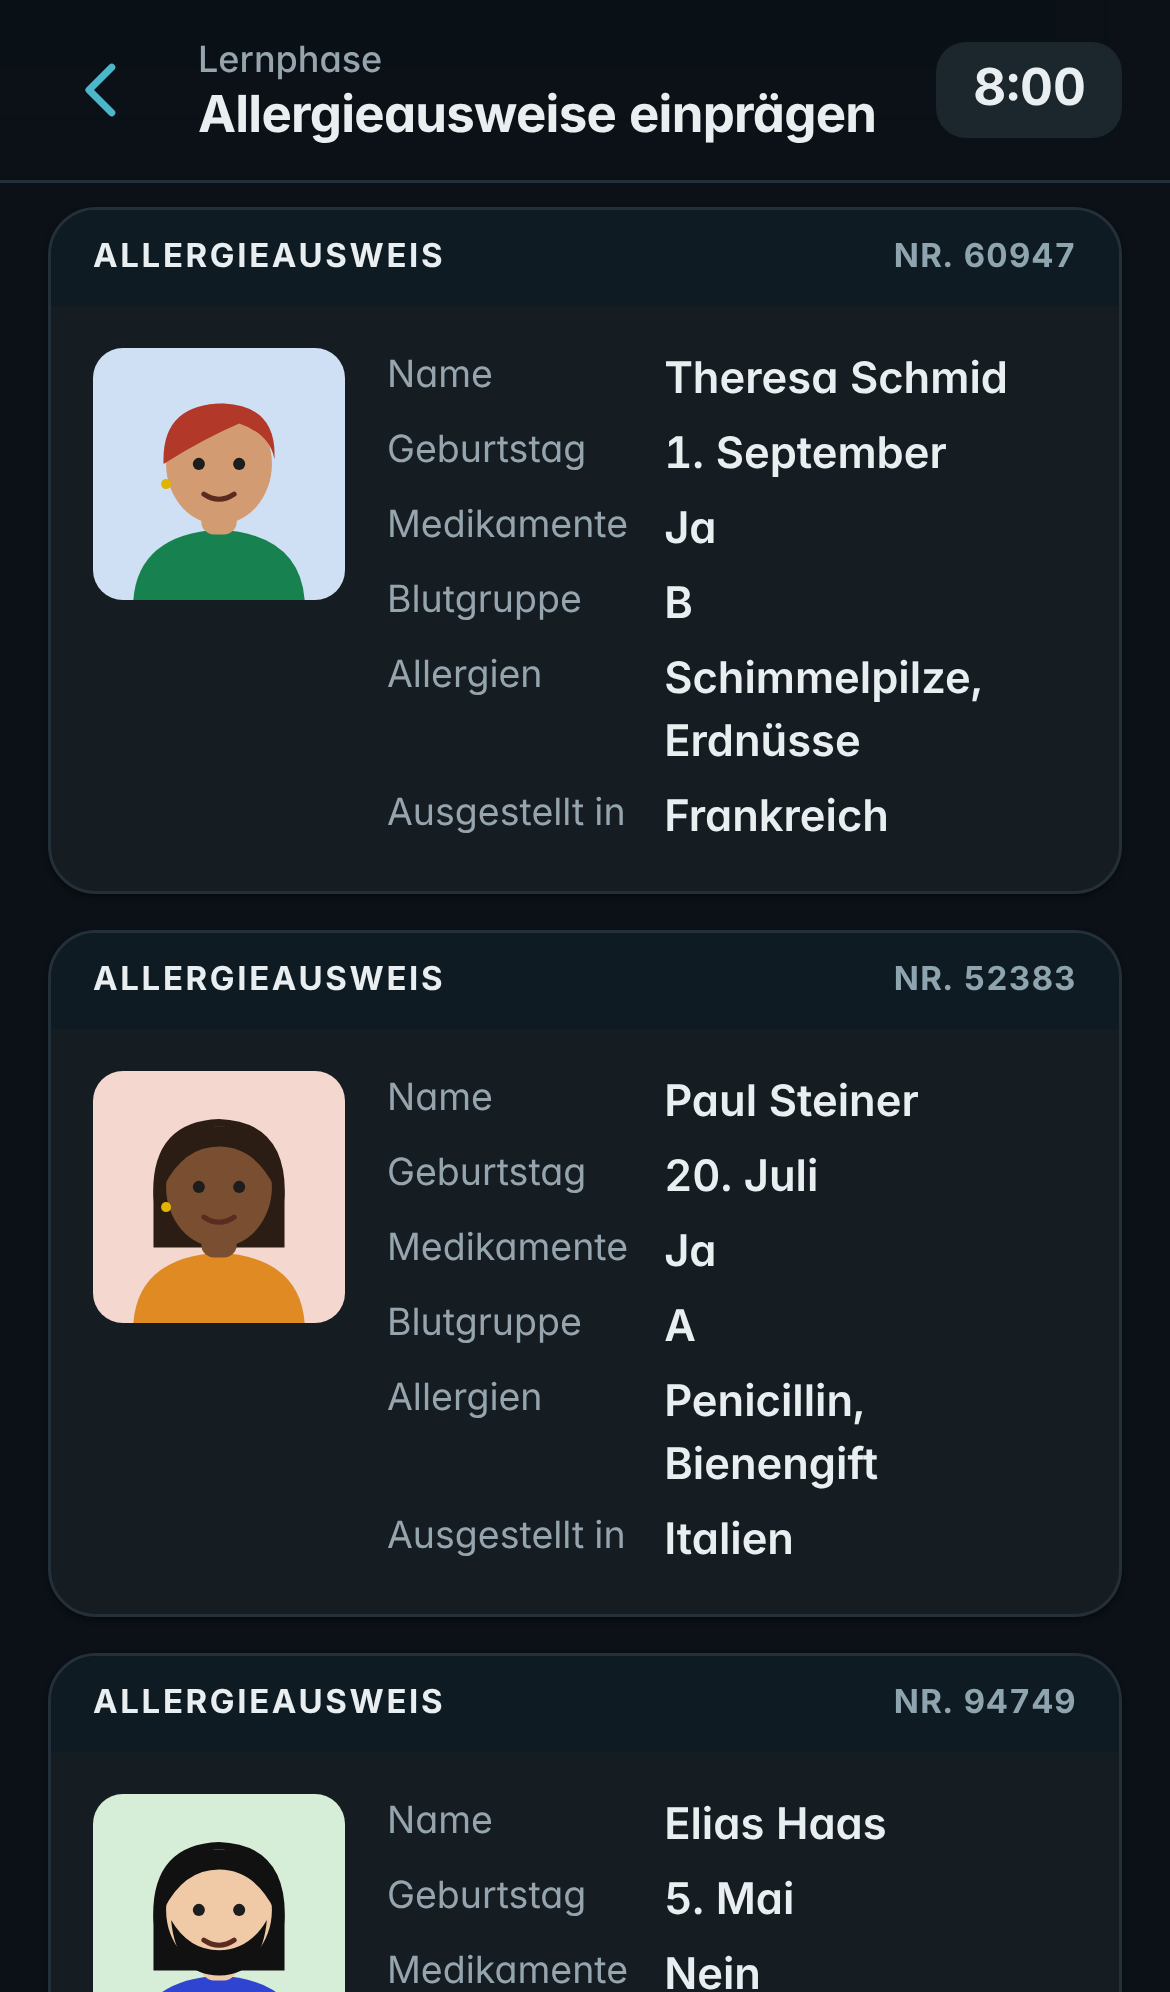
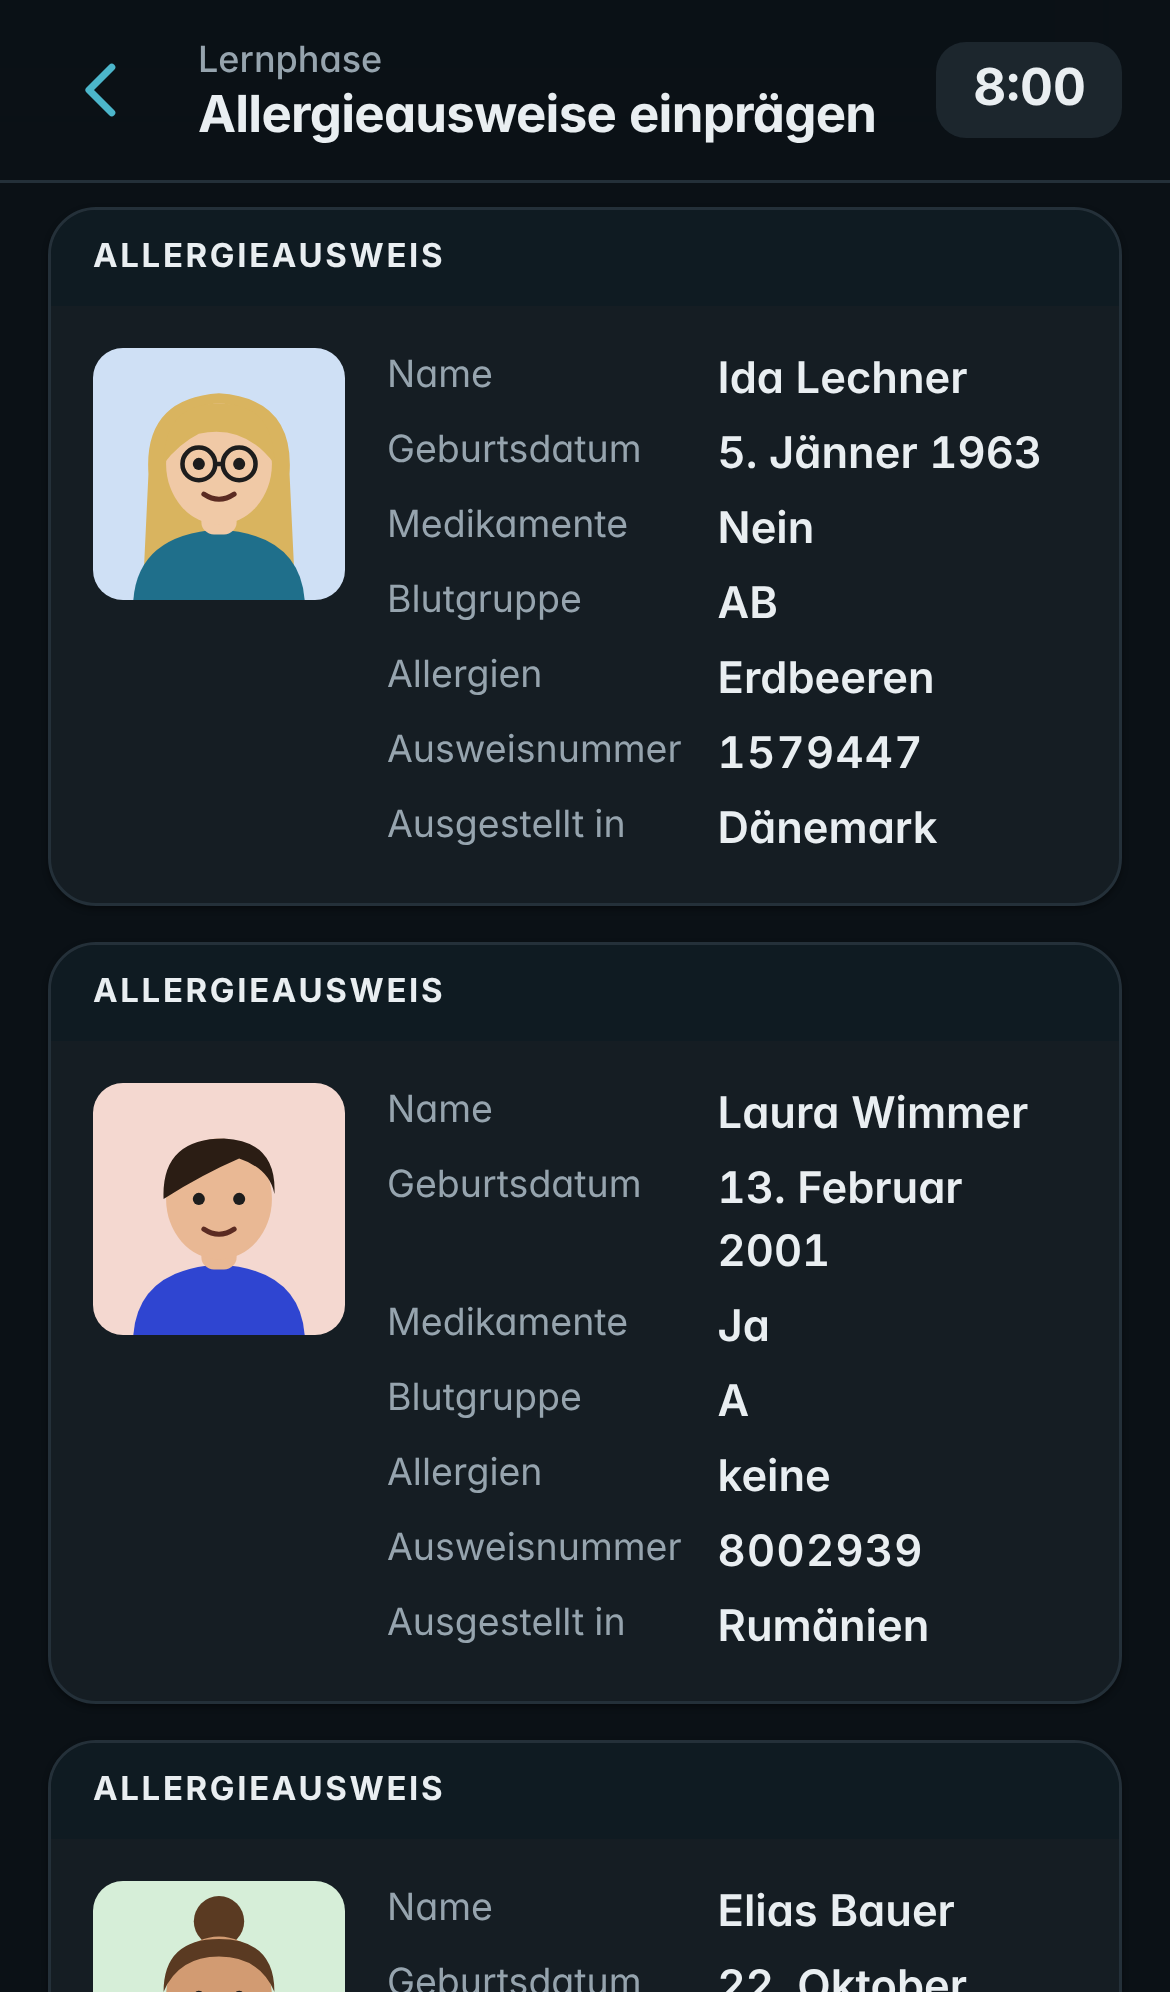
Allergieausweise: Ausweisnummer als Feld, 7-stellig, Geburtsdatum mit Jahr; Wortflüssigkeit: Buchstaben mischen
- Ausweisnummer steht jetzt wie die anderen Angaben im Ausweis
- Geburtsdatum mit Jahr; Ablenker mit gleichem Tag aber anderem Jahr
- Land-Frage grammatikalisch umformuliert
- Wortflüssigkeit: Knopf zum beliebig oft Neumischen, Original wiederherstellbar

Claude-Session: https://claude.ai/code/session_01B9wskRgUrMw6CFMS5FXK1V

diff --git a/js/gedaechtnis.js b/js/gedaechtnis.js
@@ -75,14 +75,14 @@
     const lastNames = uniquePick(LAST, n);
     const countries = uniquePick(COUNTRIES, n);
     const numbers = new Set();
-    while (numbers.size < n) numbers.add(String(randInt(10000, 99999)));
+    while (numbers.size < n) numbers.add(String(randInt(1000000, 9999999)));
     const nums = Array.from(numbers);
     const bdays = new Set();
     const bd = [];
     while (bd.length < n) {
       const d = randInt(1, 28), m = randInt(0, 11);
       const key = d + "." + m;
-      if (!bdays.has(key)) { bdays.add(key); bd.push(d + ". " + MONTHS[m]); }
+      if (!bdays.has(key)) { bdays.add(key); bd.push(d + ". " + MONTHS[m] + " " + randInt(1955, 2008)); }
     }
     const firstF = shuffle(FIRST_F), firstM = shuffle(FIRST_M);
     const cards = [];
@@ -110,14 +110,15 @@
     opts = opts || {};
     return (
       '<article class="idcard' + (opts.highlight ? " is-highlight" : "") + '">' +
-      '<div class="idcard-head"><span>Allergieausweis</span><span class="idcard-no">Nr. ' + c.number + "</span></div>" +
+      '<div class="idcard-head"><span>Allergieausweis</span></div>' +
       '<div class="idcard-body">' + avatarSvg(c.look, "Foto von " + c.name) +
       '<dl class="idcard-fields">' +
       "<dt>Name</dt><dd>" + esc(c.name) + "</dd>" +
-      "<dt>Geburtstag</dt><dd>" + c.birthday + "</dd>" +
+      "<dt>Geburtsdatum</dt><dd>" + c.birthday + "</dd>" +
       "<dt>Medikamente</dt><dd>" + c.meds + "</dd>" +
       "<dt>Blutgruppe</dt><dd>" + c.blood + "</dd>" +
       "<dt>Allergien</dt><dd>" + (c.allergies.length ? c.allergies.join(", ") : "keine") + "</dd>" +
+      "<dt>Ausweisnummer</dt><dd class=\"idcard-num\">" + c.number + "</dd>" +
       "<dt>Ausgestellt in</dt><dd>" + c.country + "</dd>" +
       "</dl></div></article>"
     );
@@ -128,7 +129,7 @@
   const REF = {
     photo: (c) => ({ html: '<span class="ref-photo">' + avatarSvg(c.look, "abgebildete Person") + "</span>", text: "die abgebildete Person" }),
     name: (c) => ({ text: esc(c.name) }),
-    birthday: (c) => ({ text: "die Person, die am " + c.birthday + " Geburtstag hat" }),
+    birthday: (c) => ({ text: "die Person, die am " + c.birthday + " geboren wurde" }),
     number: (c) => ({ text: "die Person mit der Ausweisnummer " + c.number }),
     country: (c) => ({ text: "die Person, deren Ausweis " + inCountry(c.country) + " ausgestellt wurde" }),
   };
@@ -136,7 +137,12 @@
   // Was gefragt wird: Fragetext (mit Bezug), Antwort, mögliche Ablenker
   const ASK = {
     name: { q: (r) => "Wie heißt " + r + "?", val: (c) => esc(c.name), from: (cs) => cs.map((c) => esc(c.name)) },
-    birthday: { q: (r) => "Wann hat " + r + " Geburtstag?", val: (c) => c.birthday, from: (cs) => cs.map((c) => c.birthday) },
+    birthday: {
+      q: (r) => "Wann wurde " + r + " geboren?",
+      val: (c) => c.birthday,
+      // andere Ausweise plus derselbe Tag mit anderem Jahr, damit man sich das Jahr merken muss
+      from: (cs, c) => cs.map((x) => x.birthday).concat(shuffle([-3, -2, -1, 1, 2, 3]).slice(0, 2).map((d) => c.birthday.replace(/\d{4}$/, (y) => String(Number(y) + d)))),
+    },
     meds: { q: (r) => "Nimmt " + r + " Medikamente ein?", val: (c) => c.meds, fixed: ["Ja", "Nein"] },
     blood: { q: (r) => "Welche Blutgruppe hat " + r + "?", val: (c) => c.blood, fixed: BLOOD },
     number: { q: (r) => "Welche Ausweisnummer hat " + r + "?", val: (c) => c.number, from: (cs) => cs.map((c) => c.number) },
@@ -170,7 +176,12 @@
       const ref = REF[refKind](c);
       let q = ask.q(ref.text);
       if (askKey === "country" && refKind !== "name") {
-        q = "In welchem Land wurde der Ausweis ausgestellt, der zu " + dative(ref.text) + " gehört?";
+        // „der Person, die … geboren wurde“ -> Nebensatz ans Ende stellen
+        const g = dative(ref.text);
+        const cut = g.indexOf(", ");
+        q = cut > 0
+          ? "In welchem Land wurde der Ausweis " + g.slice(0, cut) + " ausgestellt" + g.slice(cut) + "?"
+          : "In welchem Land wurde der Ausweis " + g + " ausgestellt?";
       }
       q = capital(q);
 
@@ -187,7 +198,7 @@
         if (askKey === "blood") options.push("Keine der Antworten ist richtig.");
       } else {
         const right = ask.val(c);
-        const pool = Array.from(new Set(ask.from(cards))).filter((v) => v !== right);
+        const pool = Array.from(new Set(ask.from(cards, c))).filter((v) => v !== right);
         ({ options, correct } = U.withNone(right, pool, 0.15));
       }
 

diff --git a/js/wortfluessigkeit.js b/js/wortfluessigkeit.js
@@ -52,6 +52,48 @@
     return word.split("").reverse().join("");
   }
 
+  const SHUFFLE_ICON =
+    '<svg viewBox="0 0 24 24" aria-hidden="true"><path d="M4 7h3.5c4 0 5 10 9 10H20"/><path d="M4 17h3.5c1.6 0 2.7-1.6 3.6-3.6"/>' +
+    '<path d="M13 10.2c.9-1.8 2-3.2 3.5-3.2H20"/><path d="M17.5 4.5L20 7l-2.5 2.5"/><path d="M17.5 14.5L20 17l-2.5 2.5"/></svg>';
+
+  /* Buchstaben neu anordnen, mit kurzer Animation (FLIP) */
+  function reorder(box, order) {
+    const tiles = Array.from(box.children);
+    const before = new Map(tiles.map((t) => [t, t.getBoundingClientRect()]));
+    order.forEach((t) => box.append(t));
+    const reduce = window.matchMedia && window.matchMedia("(prefers-reduced-motion: reduce)").matches;
+    if (reduce) return;
+    for (const t of tiles) {
+      const a = before.get(t), b = t.getBoundingClientRect();
+      const dx = a.left - b.left, dy = a.top - b.top;
+      if (!dx && !dy) continue;
+      t.animate([{ transform: "translate(" + dx + "px," + dy + "px)" }, { transform: "none" }], { duration: 280, easing: "cubic-bezier(.2,.7,.2,1)" });
+    }
+  }
+
+  document.addEventListener("click", (e) => {
+    const btn = e.target.closest('[data-act="tiles-shuffle"], [data-act="tiles-reset"]');
+    if (!btn) return;
+    const card = btn.closest(".prompt-card") || document;
+    const box = card.querySelector(".anagram");
+    if (!box) return;
+    const tiles = Array.from(box.children);
+    const reset = card.querySelector('[data-act="tiles-reset"]');
+    if (btn.getAttribute("data-act") === "tiles-reset") {
+      reorder(box, tiles.slice().sort((a, b) => a.dataset.pos - b.dataset.pos));
+      if (reset) reset.hidden = true;
+      return;
+    }
+    const cur = tiles.map((t) => t.dataset.pos).join(",");
+    let next = tiles;
+    for (let t = 0; t < 20; t++) {
+      next = U.shuffle(tiles);
+      if (next.map((x) => x.dataset.pos).join(",") !== cur) break;
+    }
+    reorder(box, next);
+    if (reset) reset.hidden = false;
+  });
+
   function letterHtml(l) {
     return '<span class="big-letter">' + l + "</span>";
   }
@@ -71,7 +113,11 @@
       prompt:
         '<p class="prompt-q">Mit welchem Buchstaben beginnt das Wort?</p>' +
         '<div class="anagram" aria-label="Buchstaben: ' + scrambled.split("").join(" ") + '">' +
-        scrambled.split("").map((l) => '<span class="tile">' + l + "</span>").join("") +
+        scrambled.split("").map((l, i) => '<span class="tile" data-pos="' + i + '">' + l + "</span>").join("") +
+        "</div>" +
+        '<div class="tile-tools">' +
+        '<button type="button" class="chip-btn" data-act="tiles-shuffle">' + SHUFFLE_ICON + "Mischen</button>" +
+        '<button type="button" class="chip-btn" data-act="tiles-reset" hidden>Original</button>' +
         "</div>",
       options,
       correct,

diff --git a/css/app.css b/css/app.css
@@ -500,6 +500,14 @@ section.notice { display: flex; flex-direction: column; gap: 8px; color: var(--i
   background: var(--surface-2); font-size: 21px; font-weight: 700;
 }
 .big-letter { font-size: 20px; font-weight: 700; }
+.tile-tools { display: flex; gap: 8px; }
+.chip-btn {
+  display: inline-flex; align-items: center; gap: 6px; min-height: 36px; padding: 0 14px;
+  border-radius: 999px; border: 0; background: var(--primary-soft); color: var(--primary);
+  font-size: 14px; font-weight: 600; cursor: pointer;
+}
+.chip-btn:active { opacity: .8; }
+.chip-btn svg { width: 18px; height: 18px; fill: none; stroke: currentColor; stroke-width: 2; stroke-linecap: round; stroke-linejoin: round; }
 
 /* Implikationen */
 .premises { margin: 0; padding: 0; list-style: none; display: flex; flex-direction: column; gap: 8px; counter-reset: p; }
@@ -519,7 +527,7 @@ section.notice { display: flex; flex-direction: column; gap: 8px; color: var(--i
   font-size: 11px; font-weight: 700; letter-spacing: .08em; text-transform: uppercase;
 }
 .idcard-head > span:first-child { margin-right: auto; }
-.idcard-no { letter-spacing: .04em; font-variant-numeric: tabular-nums; color: var(--header-muted); }
+.idcard-num { font-variant-numeric: tabular-nums; letter-spacing: .03em; }
 .idcard-body { display: flex; gap: 14px; padding: 14px; align-items: flex-start; }
 .idcard-body .avatar { flex: 0 0 84px; width: 84px; height: 84px; border-radius: 10px; display: block; }
 .idcard-fields { margin: 0; display: grid; grid-template-columns: auto 1fr; gap: 4px 12px; font-size: 14.5px; min-width: 0; }

diff --git a/sw.js b/sw.js
@@ -1,5 +1,5 @@
 /* Service Worker: App offline verfügbar machen. Bei Änderungen VERSION erhöhen. */
-const VERSION = "kff-v4";
+const VERSION = "kff-v5";
 const FILES = [
   "./",
   "index.html",
